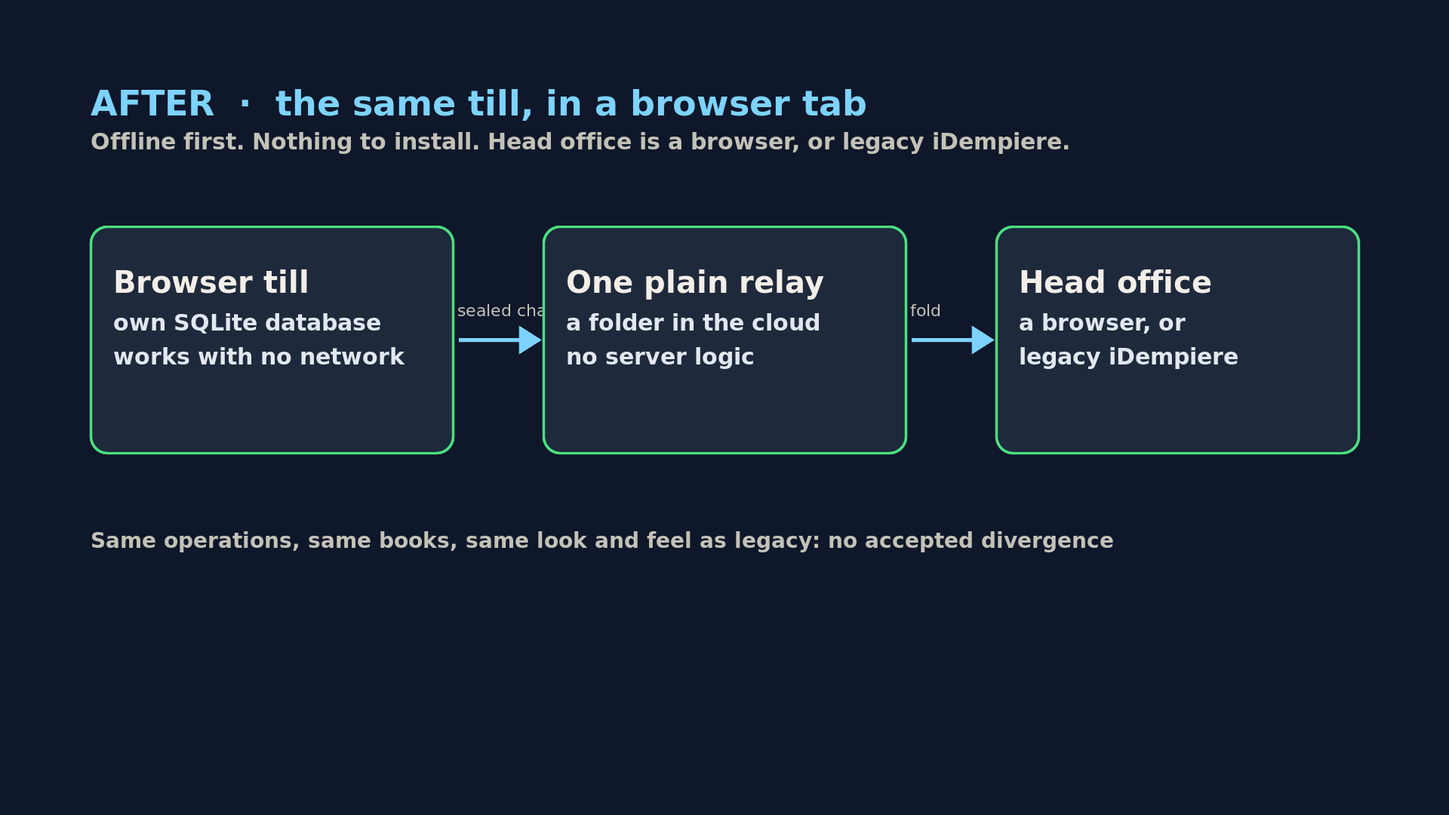
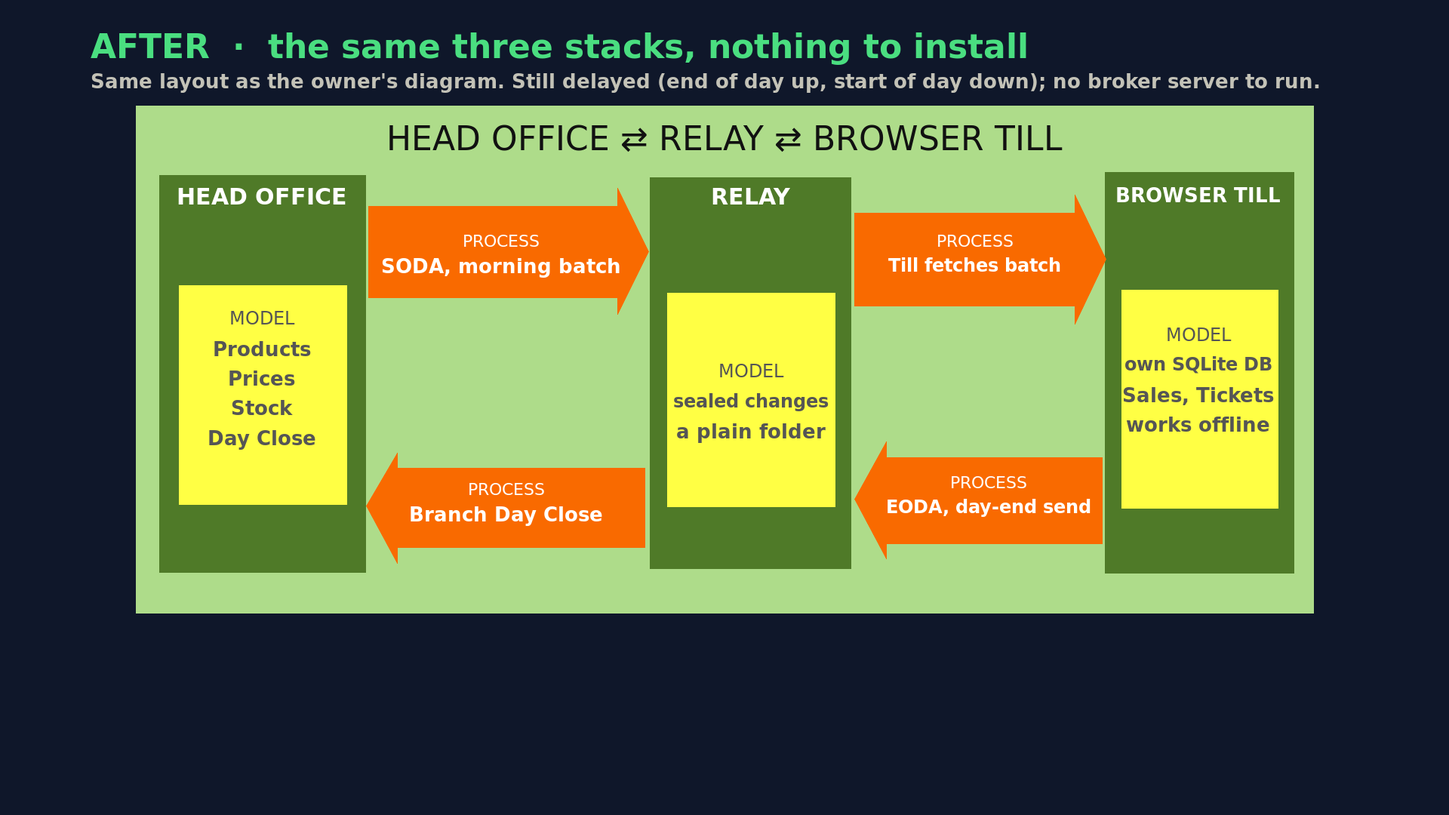
Film v3: uniCenta till - new slide 3 EXPAND (branch, main till, branch relay), beat 3 re-worded for the main-till design (BEAT3=stills|live switch) (#367)
Claude-Session: https://claude.ai/code/session_01PBvdzAwjFm5UQCygTGVDUN

diff --git a/scripts/film_unicenta_till/cards.js b/scripts/film_unicenta_till/cards.js
@@ -4,7 +4,7 @@
 'use strict';
 const fs = require('fs'), path = require('path'), { execFileSync } = require('child_process');
 const FACTS = () => JSON.parse(fs.readFileSync(path.join(__dirname, 'out', 'facts.resolved.json'), 'utf8'));
-const CORAL = '#FF6B78', OFF = '#F3EEE8', SKY = '#7dd3fc', MUT = '#C3C2B7', AMB = '#fbbf24', GRN = '#4ade80', INK = '#e2e8f0', BOXF = '#1e293b', BOXS = '#7dd3fc';
+const CRL = '#ff9aa5', CORAL = '#FF6B78', OFF = '#F3EEE8', SKY = '#7dd3fc', MUT = '#C3C2B7', AMB = '#fbbf24', GRN = '#4ade80', INK = '#e2e8f0', BOXF = '#1e293b', BOXS = '#7dd3fc';
 const box = (x, y, w, h, o) => ({ t: 'box', x, y, w, h, fill: (o && o.fill) || BOXF, stroke: (o && o.stroke) || BOXS });
 const tx = (x, y, size, color, txt, o) => ({ t: 'text', x, y, size, color, txt, bold: !(o && o.light), center: o && o.center });
 const arrow = (x1, y, x2, label) => ({ t: 'arrow', x1, y, x2, label });
@@ -26,13 +26,43 @@ function afterDiagram() {
     ctx(552, 190, 22, '#ffffff', 'PROCESS', false), ctx(552, 225, 26, '#ffffff', 'SODA, morning batch'), ctx(1270, 190, 22, '#ffffff', 'PROCESS', false), ctx(1270, 225, 24, '#ffffff', 'Till fetches batch'),
     ctx(560, 565, 22, '#ffffff', 'PROCESS', false), ctx(560, 600, 26, '#ffffff', 'Branch Day Close'), ctx(1290, 555, 22, '#ffffff', 'PROCESS', false), ctx(1290, 590, 24, '#ffffff', 'EODA, day-end send')];
 }
+
+// v3 (2026-11-05, POS_PLUGIN_LOCAL_FIRST.md §34.E): the EXPAND slide. The right-hand stack of the AFTER opens into a BRANCH: several tills, each air-gapped on its own localhost, joined by a branch relay;
+// one MAIN TILL holds HQ's stock figure, collects the others' order lines, and alone talks to the internet relay (EODA up, SODA down). DESIGN drawn, no number on any of these cards (nothing is measured yet).
+const pframe = (x1, y1, x2, y2, color, w) => ({ t: 'frame', x1: gx(x1), y1: gy(y1), x2: gx(x2), y2: gy(y2), color, w });
+const harrow = (xa, xb, yc, dir, fill) => { const base = xb - dir * 42, h = 14, hh = 32;
+  return parrow([[xa, yc - h], [base, yc - h], [base, yc - hh], [xb, yc], [base, yc + hh], [base, yc + h], [xa, yc + h]], fill || ORG); };
+const TX = [780, 1025, 1270, 1515], TW = 215, DKR = '#b3122a';
+// o: relay (branch relay bar + connectors), arrows ('on' | 'off'), labels (SODA/EODA words), main (till A is the MAIN TILL), collect (connectors coral = order lines flow to the main till), note (lines in the branch foot)
+function branchDiagram(o) {
+  const ops = [prect(0, 0, 1781, 767, GREENBG), prect(35, 105, 270, 705, DKG), prect(380, 108, 600, 700, DKG), prect(760, 105, 1751, 707, DKG),
+    prect(55, 272, 250, 603, YEL), prect(400, 283, 580, 606, YEL)];
+  if (o.arrows === 'on') { ops.push(harrow(275, 375, 200, 1), harrow(375, 275, 560, -1), harrow(605, 755, 215, 1), harrow(755, 605, 345, -1)); }
+  ops.push(ctx(891, 20, 40, '#111111', 'HEAD OFFICE ⇄ INTERNET RELAY ⇄ BRANCH', false), ctx(152, 118, 24, '#ffffff', 'HEAD OFFICE'), ctx(490, 118, 28, '#ffffff', 'RELAY'), ctx(1255, 118, 30, '#ffffff', 'BRANCH'),
+    ctx(152, 305, 24, '#555555', 'MODEL', false), ctx(152, 350, 26, '#555555', 'Products'), ctx(152, 395, 26, '#555555', 'Prices'), ctx(152, 440, 26, '#555555', 'Stock'), ctx(152, 485, 26, '#555555', 'Day Close'),
+    ctx(490, 330, 24, '#555555', 'INTERNET', false), ctx(490, 380, 20, '#555555', 'sealed changes'), ctx(490, 425, 22, '#555555', 'a plain folder'));
+  if (o.labels) ops.push(ctx(680, 172, 17, '#111111', 'SODA, down'), ctx(680, 374, 17, '#111111', 'EODA, up'));
+  for (let i = 0; i < 4; i++) { const mainTill = o.main && i === 0, x = TX[i], cx = x + TW / 2, y2 = mainTill ? 432 : 360;
+    ops.push(prect(x, 160, x + TW, y2, YEL));
+    if (mainTill) ops.push(pframe(x, 160, x + TW, y2, DKR, 7), ctx(cx, 170, 26, DKR, 'MAIN TILL'));
+    ops.push(ctx(cx, mainTill ? 215 : 180, 28, '#555555', 'TILL ' + 'ABCD'[i]), ctx(cx, mainTill ? 262 : 230, 24, '#555555', 'localhost'), ctx(cx, mainTill ? 300 : 268, 24, '#555555', 'air-gapped'), ctx(cx, mainTill ? 338 : 306, 21, '#555555', 'own SQLite DB', false));
+    if (mainTill) ops.push(ctx(cx, 370, 20, DKR, 'HQ stock figure'), ctx(cx, 398, 20, DKR, '+ order lines'));
+    if (o.relay) ops.push(prect(cx - 6, y2, cx + 6, 470, o.collect && i > 0 ? CRL : (o.collect ? DKR : ORG)));
+  }
+  if (o.relay) ops.push(prect(780, 470, 1730, 545, '#0e7490'), ctx(1255, 485, 30, '#ffffff', 'BRANCH RELAY'), ctx(1255, 520, 20, '#e0f2fe', 'inside the shop', false));
+  (o.note || []).forEach((n, i) => ops.push(ctx(1255, 575 + i * 42, 24, '#ffffff', n, i === 0)));
+  return ops; }
+const NOTE_FRAME = { exp2: ['Each till runs from its own copy, on its own localhost', 'no public address, no server to reach'], exp3: ['A dumb mailbox on the shop\'s own network', 'it carries the shop\'s own traffic, nothing else'],
+  exp4: ['MAIN TILL: HQ\'s stock figure + the others\' order lines', 'Only the main till talks to the internet relay', 'Branch relay down? Every till keeps selling'],
+  day1: ['SELLING: every till rings on its own localhost', 'nothing goes out to the internet while they sell'], day2: ['COLLECTING: the main till collects each till\'s order lines', 'since that till\'s last timestamp, never a line twice', 'running record: HQ stock figure minus the collected lines'],
+  day3: ['END OF DAY: the main till\'s EODA is the single send', 'to the internet relay; head office picks it up from there'] };
 function spec() {
   const F = {}; const fr = FACTS(); Object.keys(fr).forEach(k => { F[k] = fr[k].value; });
   const chap = (k, l1, l2, pl) => ({ bg: '#0b0f17', ops: [{ t: 'ctext', y: 330, size: 34, color: CORAL, txt: k, spacing: 6 }, { t: 'ctext', y: 400, size: 120, color: OFF, txt: l1, bold: true }, { t: 'ctext', y: 540, size: 120, color: CORAL, txt: l2, bold: true }, { t: 'ctext', y: 700, size: 40, color: MUT, txt: pl }] });
   const C = {
     ch1: chap('THE TILL', 'A till you', 'already know', 'uniCenta layout and flow, in a browser tab'),
     ch2: chap('THE RESTAURANT', 'Kitchen', 'and tables', 'floor map, Send Order, the kitchen screen'),
-    ch3: chap('THE BRANCH DAY', 'End of day,', 'once', 'three tills, one branch admin, one send'),
+    ch3: chap('THE BRANCH DAY', 'End of day,', 'once', 'each till rings on its own, the main till collects, a single send'),
     ch4: chap('HEAD OFFICE', 'Head office,', 'next morning', 'one click closes the branch day'),
     ch5: chap('SODA', 'Only what', 'changed', 'the morning batch down to the tills'),
     ch6: chap('THE ORACLE', 'Same books', 'as legacy', 'compared with real iDempiere, column by column'),
@@ -41,6 +71,13 @@ function spec() {
     before: { bg: '#0f172a', ops: [tx(120, 36, 44, SKY, 'BEFORE  ·  the owner\'s integration, ' + F.year2012), tx(120, 92, 26, MUT, 'Diagram: "ERP to POS integration model", from RED1\'s integration guide of ' + F.year2011 + ' (copyleft RED1)'),
       { t: 'img', file: 'p50_diagram.png', x: 180, y: 140, w: 1560 }] },
     after: { bg: '#0f172a', ops: [tx(120, 36, 44, GRN, 'AFTER  ·  the same three stacks, nothing to install'), tx(120, 92, 26, MUT, 'Same layout as the owner\'s diagram. Still delayed (end of day up, start of day down); no broker server to run.')].concat(afterDiagram()) },
+    exp1: { bg: '#0f172a', ops: [tx(120, 36, 44, GRN, 'EXPAND  ·  the right-hand stack opens up into a branch'), tx(120, 92, 26, MUT, 'The AFTER diagram again, same three stacks. Watch the browser till on the right.')].concat(afterDiagram(), [pframe(1456, 90, 1761, 717, CORAL, 8)]) },
+    exp2: { bg: '#0f172a', ops: [tx(120, 36, 44, GRN, 'EXPAND  ·  several tills, each air-gapped on its own localhost'), tx(120, 92, 26, MUT, 'The design of a branch, in the same layout as the owner\'s diagram.')].concat(branchDiagram({ arrows: 'on', note: NOTE_FRAME.exp2 })) },
+    exp3: { bg: '#0f172a', ops: [tx(120, 36, 44, GRN, 'EXPAND  ·  a branch relay joins them, inside the shop'), tx(120, 92, 26, MUT, 'The design of a branch, in the same layout as the owner\'s diagram.')].concat(branchDiagram({ arrows: 'on', relay: true, note: NOTE_FRAME.exp3 })) },
+    exp4: { bg: '#0f172a', ops: [tx(120, 36, 44, GRN, 'EXPAND  ·  one MAIN TILL talks to the internet relay'), tx(120, 92, 26, MUT, 'EODA goes up, SODA comes down: the same delayed relay as before, once per branch.')].concat(branchDiagram({ arrows: 'on', relay: true, labels: true, main: true, note: NOTE_FRAME.exp4 })) },
+    day1: { bg: '#0f172a', ops: [tx(120, 36, 44, SKY, 'END OF DAY  ·  every till rings on its own'), tx(120, 92, 26, MUT, 'Design of the branch day. Nothing leaves the shop while the tills sell.')].concat(branchDiagram({ arrows: 'off', relay: false, note: NOTE_FRAME.day1 })) },
+    day2: { bg: '#0f172a', ops: [tx(120, 36, 44, SKY, 'END OF DAY  ·  the main till collects'), tx(120, 92, 26, MUT, 'Design of the branch day. The collecting runs on the shop\'s own relay only.')].concat(branchDiagram({ arrows: 'off', relay: true, main: true, collect: true, note: NOTE_FRAME.day2 })) },
+    day3: { bg: '#0f172a', ops: [tx(120, 36, 44, SKY, 'END OF DAY  ·  the main till\'s EODA is the one send'), tx(120, 92, 26, MUT, 'Design of the branch day. Head office picks the day up from the internet relay.')].concat(branchDiagram({ arrows: 'on', relay: true, labels: true, main: true, collect: true, note: NOTE_FRAME.day3 })) },
     gs: { bg: '#0f172a', ops: [tx(120, 110, 46, SKY, 'Branch Day Close  ·  before and after'),
       box(120, 220, 800, 330), tx(160, 270, 36, SKY, 'CLICKS'), tx(160, 360, 110, OFF, F.dc_before_g + '  →  ' + F.dc_after_g), tx(160, 480, 28, MUT, 'step by step, then one click'),
       box(1000, 220, 800, 330), tx(1040, 270, 36, SKY, 'SCREENS'), tx(1040, 360, 110, OFF, F.dc_before_s + '  →  ' + F.dc_after_s), tx(1040, 480, 28, MUT, 'six screens, then one'),
@@ -79,6 +116,7 @@ function render(outDir) {
       else if (o.t === 'arrow') { a.push('-stroke', SKY, '-strokewidth', '5', '-fill', SKY, '-draw', `line ${o.x1 + 8},${o.y} ${o.x2 - 22},${o.y}`, '-draw', `polygon ${o.x2 - 8},${o.y} ${o.x2 - 30},${o.y - 14} ${o.x2 - 30},${o.y + 14}`);
         a.push('-stroke', 'none', '-fill', MUT, '-font', 'DejaVu-Sans', '-pointsize', '22', '-gravity', 'NorthWest', '-annotate', `+${o.x1 + 6}+${o.y - 52}`, o.label); }
       else if (o.t === 'rect') a.push('-stroke', 'none', '-fill', o.fill, '-draw', `rectangle ${o.x1},${o.y1} ${o.x2},${o.y2}`);
+      else if (o.t === 'frame') a.push('-stroke', o.color, '-strokewidth', String(o.w || 6), '-fill', 'none', '-draw', `rectangle ${o.x1},${o.y1} ${o.x2},${o.y2}`);
       else if (o.t === 'poly') a.push('-stroke', 'none', '-fill', o.fill, '-draw', `polygon ${o.pts}`);
       else if (o.t === 'img') a.push('(', path.join(__dirname, 'out', 'pdf', o.file), '-filter', 'Lanczos', '-resize', o.w + 'x', ')', '-gravity', 'NorthWest', '-geometry', `+${o.x}+${o.y}`, '-composite');
       else if (o.t === 'text' && o.cx !== undefined) a.push('-stroke', 'none', '-fill', o.color, '-font', o.bold ? 'DejaVu-Sans-Bold' : 'DejaVu-Sans', '-pointsize', String(o.size), '-gravity', 'North', '-annotate', `${o.cx - 960 >= 0 ? '+' : ''}${o.cx - 960}+${o.y}`, o.txt);

diff --git a/scripts/film_unicenta_till/narr.js b/scripts/film_unicenta_till/narr.js
@@ -4,15 +4,19 @@ const fs = require('fs'), path = require('path');
 const SB = {}; fs.readFileSync(path.join(__dirname, 'script_en.md'), 'utf8').split('\n').forEach(l => { const m = /^\| (\d+) \|.*\| "(.*)" \|\s*$/.exec(l); if (m) SB[m[1]] = m[2]; });
 const SPEC = JSON.parse(fs.readFileSync(path.join(__dirname, 'facts.spec.json'), 'utf8')); delete SPEC._note;
 // [id, card (a plain card name, a chapter card, or 'REC:<segment>' = a recorded clip), storyboard row (null = silent), hold seconds (silent), facts, blockedBy]
+// BEAT3=stills (default): beat 3 is a composite of design stills (the recorded footage shows the OLD till -> branch-admin hand-off, which contradicts the main-till words).  BEAT3=live: the recorded clips seg_tills / seg_admin (re-record them when the main till + branch relay, TEAMWORK §38, have landed).
+const B3 = (process.env.BEAT3 || 'stills') === 'live';
 const BEATS = [
-  ['b0a', 'before', '1', 0, ['year2012', 'stacks3']], ['b0b', 'after', '2', 0, ['stacks3']],
+  ['b0a', 'before', '1', 0, ['year2012', 'stacks3']], ['b0b', 'after', '2', 0, ['stacks3']], ['b0c', 'exp1+exp2+exp3+exp4', '18', 0, []],
   ['c1', 'ch1', null, 3.6, []], ['b1p', 'orig', '3', 0, ['year2011', 'guide_two', 'guide_three']], ['b1a', 'REC:know', '4', 0, ['parity_n', 'parity_of']], ['b1b', 'REC:sale', '5', 0, ['sale_lines', 'sale_total']], ['b1c', 'REC:fold', '6', 0, [], 'W-TILL-CATALOG-TOGGLE'],
   ['c2', 'ch2', null, 3.6, []], ['b2a', 'REC:floor', '7', 0, []], ['b2b', 'REC:bump', '8', 0, ['rest_open_writes', 'rest_tap_writes', 'relay_order', 'lines_lo', 'lines_hi'], 'W-REST-FLOOR (chairs drawn)'],
-  ['c3', 'ch3', null, 3.6, []], ['b3a', 'REC:tills', '9', 0, ['tills', 'day_requests', 'relay_day']], ['b3b', 'REC:admin', '10', 0, ['tills', 'z_equal', 'eoda_send']],
+  ['c3', 'ch3', null, 3.6, []], ['b3a', B3 ? 'REC:tills' : 'day1+day2', '9', 0, []], ['b3b', B3 ? 'REC:admin' : 'day2+day3', '10', 0, []],
   ['c4', 'ch4', null, 3.6, []], ['b4a', 'REC:close', '11', 0, []], ['b4b', 'gs', '12', 0, ['dc_before_g', 'dc_before_s', 'dc_after_g', 'dc_after_s', 'dc_rowdiff', 'bom_a', 'bom_b', 'bom_c']],
   ['c5', 'ch5', null, 3.6, []], ['b5a', 'REC:price', '13', 0, ['soda_one', 'soda_other', 'soda_prices']], ['b5b', 'REC:receive', '14', 0, ['recv_target', 'recv_conf', 'recv_scrap', 'src_before', 'src_after', 'tgt_before', 'tgt_after'], 'W-RECEIVE-UI (§33.4 typed panel)'],
   ['c6', 'ch6', null, 3.6, []], ['b6', 'match', '15', 0, ['par_items', 'par_hdr', 'par_line']],
   ['b7', 'notyet', '16', 0, ['open_count', 'open_dec', 'open_dec2']], ['b8', 'credits', '17', 0, ['year2012']], ['end', 'credits', null, 0.3, []]];
 const beats = BEATS.map(([id, card, sb, hold, facts, blocked]) => { const raw = sb ? SB[sb] : null; if (sb && !raw) throw new Error('storyboard row ' + sb + ' has no narration'); facts.forEach(k => { if (!SPEC[k]) throw new Error(id + ' names unknown fact ' + k); });
-  return { id, card, rec: card.startsWith('REC:') ? card.slice(4) : null, hold: hold || null, text: raw, facts, blocked: blocked || null }; });
-module.exports = { beats, SPEC };
+  return { id, card, cards: card.startsWith('REC:') ? null : card.split('+'), rec: card.startsWith('REC:') ? card.slice(4) : null, hold: hold || null, text: raw, facts, blocked: blocked || null }; });
+// seconds-share of each still of a cross-faded beat (the first still carries the opening line)
+const WEIGHTS = { b0c: [2, 3, 3, 4], b3a: [1, 1], b3b: [1, 1] };
+module.exports = { beats, SPEC, WEIGHTS };

diff --git a/scripts/film_unicenta_till/assemble.js b/scripts/film_unicenta_till/assemble.js
@@ -13,7 +13,13 @@ for (const b of N.beats) {
     // a real-pace clip longer than its narration + SLACK is time-lapsed (setpts) so the picture ends with the voice (PLAYBOOK C step 4: speech + 1-3 s); never slowed, padded only up to the narration
     const speed = have > target ? have / target : 1, pad = speed === 1 ? Math.max(0, want - have) : 0; const w0 = want; want = speed > 1 ? target : Math.max(want, have); console.log(`§ASM_SPEED ${b.id} clip=${have.toFixed(2)}s narration_want=${w0.toFixed(2)}s speed=x${speed.toFixed(2)}`);
     execFileSync('ffmpeg', ['-v', 'error', '-y', '-i', clip, '-vf', `setpts=PTS/${speed.toFixed(4)},fps=${FPS},tpad=stop_mode=clone:stop_duration=${pad.toFixed(3)},scale=1920:1080,format=yuv420p`, ...ENC, seg]); }
-  else { const png = path.join(OUT, 'cards', b.card + '.png'), ch = /^ch/.test(b.card), fade = ch ? `,fade=t=in:st=0:d=0.4,fade=t=out:st=${(want - 0.4).toFixed(3)}:d=0.4` : '';
+  else if (b.cards.length > 1) { // stills cross-faded (xfade): the cards share the beat's length by W weights; each clip carries the fade overlap X, the chain is cut to `want` (§34.E EXPAND animation, no zoompan)
+    const X = 0.8, K = b.cards.length, WT = (N.WEIGHTS && N.WEIGHTS[b.id]) || b.cards.map(() => 1), SW = WT.reduce((a, v) => a + v, 0), d = WT.map(v => want * v / SW), args = ['-v', 'error', '-y']; let fc = '', len = d[0] + X;
+    b.cards.forEach((c, i) => args.push('-loop', '1', '-framerate', String(FPS), '-t', (d[i] + X).toFixed(3), '-i', path.join(OUT, 'cards', c + '.png')));
+    b.cards.forEach((c, i) => { fc += `[${i}:v]scale=1920:1080,format=yuv420p,setsar=1[s${i}];`; });
+    let prev = 's0'; for (let i = 1; i < K; i++) { const off = len - X; fc += `[${prev}][s${i}]xfade=transition=fade:duration=${X}:offset=${off.toFixed(3)}[x${i}];`; prev = 'x' + i; len += d[i]; }
+    execFileSync('ffmpeg', [...args, '-filter_complex', fc.replace(/;$/, ''), '-map', '[' + prev + ']', '-t', want.toFixed(3), ...ENC, seg]); console.log(`§ASM_XFADE ${b.id} cards=${b.cards.join(',')} fade=${X}s parts=${d.map(v => v.toFixed(2)).join('/')}s`); }
+  else { const png = path.join(OUT, 'cards', b.cards[0] + '.png'), ch = /^ch/.test(b.card), fade = ch ? `,fade=t=in:st=0:d=0.4,fade=t=out:st=${(want - 0.4).toFixed(3)}:d=0.4` : '';
     execFileSync('ffmpeg', ['-v', 'error', '-y', '-loop', '1', '-framerate', String(FPS), '-i', png, '-t', want.toFixed(3), '-vf', `scale=1920:1080,format=yuv420p${fade}`, ...ENC, '-tune', 'stillimage', seg]); }
   const n = frames(seg), s = t; t += n / FPS; TL.push({ id: b.id, start: +s.toFixed(3), end: +t.toFixed(3), frames: n, want: +want.toFixed(2) }); list.push(`file '${seg}'`);
   console.log(`§ASM_SEG ${b.id} start=${s.toFixed(3)} frames=${n} dur=${(n / FPS).toFixed(3)} want=${want.toFixed(2)}`);

diff --git a/scripts/film_unicenta_till/livecheck.js b/scripts/film_unicenta_till/livecheck.js
@@ -9,7 +9,7 @@ const CK = [['tills', '3', 'three tills'], ['sale_lines', '4', 'two rose bushes 
   ['eoda_send', '1', 'one hub-lane put for the send'], ['recv_target', fx('recv_target'), 'five sent'], ['recv_confirmed', fx('recv_conf'), 'three arrived'], ['recv_scrapped', fx('recv_scrap'), 'one scrapped'],
   ['src_before', fx('src_before'), 'twenty'], ['src_after', fx('src_after'), 'fifteen'], ['tgt_before', fx('tgt_before'), 'four'], ['tgt_after', fx('tgt_after'), 'six'],
   ['tap_deposits', fx('rest_tap_writes'), 'tapping items writes nothing (§32.R twin)'], ['leave_deposits', fx('rest_open_writes'), 'one write per table visit (§32.R twin)'], ['prices_total', String(+fx('soda_other') + 1), 'twenty-six others = 27 - 1'], ['parity_rows', fx('parity_n'), 'twenty-five of twenty-five (§32.R twin)']];
-let fail = 0, inc = 0;
-CK.forEach(([k, want, why]) => { if (L[k] === undefined) { inc++; console.log('§LIVE ' + k + ' INCONCLUSIVE no §TILLFILM_FACT printed (' + why + ')'); return; } const ok = L[k] === String(want); if (!ok) fail++; console.log('§LIVE ' + k + ' ' + (ok ? 'OK' : 'FAIL') + ' live=' + L[k] + ' want=' + want + ' (' + why + ')'); });
+let fail = 0, inc = 0, skipped = 0; const STILLS = (process.env.BEAT3 || 'stills') !== 'live', B3KEYS = ['tills', 'relay_day', 'z_equal', 'eoda_send']; // beat 3 as stills: the recorded old till->admin hand-off is not on screen and its numbers are not spoken
+CK.forEach(([k, want, why]) => { if (STILLS && B3KEYS.indexOf(k) >= 0) { skipped++; console.log('§LIVE_SKIP ' + k + ' (BEAT3=stills: beat 3 shows no recording, the voice speaks no number there)'); return; } if (L[k] === undefined) { inc++; console.log('§LIVE ' + k + ' INCONCLUSIVE no §TILLFILM_FACT printed (' + why + ')'); return; } const ok = L[k] === String(want); if (!ok) fail++; console.log('§LIVE ' + k + ' ' + (ok ? 'OK' : 'FAIL') + ' live=' + L[k] + ' want=' + want + ' (' + why + ')'); });
 const extra = [['chairs_drawn', v => +v > 0, 'W-REST-FLOOR: chairs drawn'], ['sale_total', v => +v > 0, 'sample sale total']]; extra.forEach(([k, f, why]) => { if (L[k] === undefined) { inc++; console.log('§LIVE ' + k + ' INCONCLUSIVE'); return; } const ok = f(L[k]); if (!ok) fail++; console.log('§LIVE ' + k + ' ' + (ok ? 'OK' : 'FAIL') + ' live=' + L[k] + ' (' + why + ')'); });
-console.log('§LIVE_VERDICT ' + (fail ? 'FAIL fails=' + fail : inc ? 'INCONCLUSIVE missing=' + inc : 'PASS') + ' checked=' + (CK.length + extra.length)); process.exit(fail ? 1 : 0);
+console.log('§LIVE_VERDICT ' + (fail ? 'FAIL fails=' + fail : inc ? 'INCONCLUSIVE missing=' + inc : 'PASS') + ' checked=' + (CK.length + extra.length - skipped) + ' skipped=' + skipped); process.exit(fail ? 1 : 0);

diff --git a/scripts/film_unicenta_till/script_en.md b/scripts/film_unicenta_till/script_en.md
@@ -1,18 +1,18 @@
 <!-- ⚠ DO NOT REMOVE — Scope: narration source of the film "uniCenta POS, reborn: the SQLite WASM till" (bim-compiler prompts/POS_PLUGIN_LOCAL_FIRST.md §34, PLAYBOOK C of prompts/FILM_NARRATION.md). The last column is spoken VERBATIM (F asks as a newcomer, M answers). Numbers are IN WORDS and each one is a fact of facts.spec.json (guard.js refuses any number word that the beat does not declare). READ THE LOG after every run: out/resolve.log, out/guard.log, out/fit.log. -->
-# Storyboard — narration (v2, EN)
+# Storyboard — narration (v3, EN)
 
 | # | Beat | On screen | Narration |
 |---|---|---|---|
 | 1 | b0a Before | the owner's own p50 diagram "ERP to POS integration model", cropped from his integration guide (credited at the top) | "F: Before we start: what did the owner build back in twenty twelve? | "F: Before we start: what did the owner build back in twenty twelve? | M: This is the owner's own diagram: the ERP, an ActiveMQ message queue in the middle, and the POS. Three stacks that work asynchronously. The queue only holds the data, and it is a server you install and run." |
-| 2 | b0b After | AFTER card drawn in the diagram's own layout: head office, relay, browser till | "F: And what is different now? | "F: And what is different now? | M: The same three stacks, still delayed: the end of day goes up and the start of day comes down. The till is a browser tab that keeps working offline, the middle is a plain mailbox with no server to run, and head office is a browser, or the original iDempiere." |
+| 2 | b0b After | AFTER card drawn in the diagram's own layout: head office, relay, browser till (no LAN, no multi-till) | "F: And what is different now? | "F: And what is different now? | M: The same three stacks, still delayed: the end of day goes up and the start of day comes down. The till is a browser tab that keeps working offline, the middle is a plain mailbox with no server to run, and head office is a browser, or the original iDempiere." |
 | 3 | b1p Original | the ORIGINAL Openbravo POS sales screen, cropped from the owner's guide (2011): Tools tiles, ticket Hoe + Rake-Bamboo | "F: Wait, that screen has the same Tools tiles, Hoe and Rake. | M: It does. That was the Openbravo till of the owner's guide from twenty eleven, two hoes and three bamboo rakes on a single ticket. Here it is today, in a browser tab." |
 | 4 | b1a Know | till: login, Register menu, Sales | "F: Is this really like uniCenta? | M: A cashier signs in, picks Sales from the Register menu, and sees the sales screen they know. Twenty-five of twenty-five everyday uniCenta tasks pass the parity check." |
 | 5 | b1b Sale | sample sale by real clicks, split tender, receipt | "F: And ringing up a sale? | M: Two rose bushes, a hoe and a patio chair, all by real clicks. Cash and card together, then the receipt." |
 | 6 | b1c Fold | catalog collapses and expands (§33) | "F: The picture catalog takes a lot of room, doesn't it? | M: So it folds away with a single tap, and opens again when you need it." |
 | 7 | b2a Floor | floor map, open a table, Send Order, kitchen card | "F: What about a restaurant? | M: The floor map draws each table with its chairs. Open a table, add the order, press Send Order, and a card appears on the kitchen screen." |
 | 8 | b2b Bump | bump, ready on the till, booking checked in | "F: How much traffic does that cost? | M: Opening a table is a single write, and tapping items writes nothing. A delivered order takes thirty-eight relay requests, whether it has one line or eight. | F: And when the cook is done? | M: The cook bumps the card, the till shows it is ready, and a booked table is checked in the same way." |
-| 9 | b3a Tills | three tills sell, Close Cash on each | "F: Three tills, three closings. What does head office hear from them? | M: Nothing while they sell: the tills send zero requests. At Close Cash each till hands its shift to the branch admin." |
-| 10 | b3b Admin | branch admin EODA screen, Send EODA, relay counter | "F: So who does talk to head office? | M: Only the admin, and only once. Its screen shows each till's ticket range and Z report, and the branch total equals the sum of the three Z reports." |
+| 9 | b3a Tills | stills (BEAT3=stills) or the re-recorded tills (BEAT3=live): each till rings on its own localhost, the main till collects | "F: Several tills, several closings. What does head office hear from them? | M: Nothing while they sell. Each till rings on its own, on its own localhost. The main till collects the others' order lines inside the branch, by timestamp, and never a line twice." |
+| 10 | b3b Main till | the main till's end-of-day send (stills or live, as above) | "F: So who does talk to head office? | M: Only the main till, and only once. Its end of day is the single send to the internet relay, and head office picks it up from there. Its running record starts from head office's stock figure and takes off every collected line." |
 | 11 | b4a Close | head office: Branch Day Close, one click | "F: And at head office, the next morning? | M: A single click on Branch Day Close. It imports the day's sales and runs the replenishment, in the same order the clerk would." |
 | 12 | b4b Count | card: clicks and screens before and after | "F: How many steps did that used to take? | M: Twenty-eight clicks across six screens. Now nine clicks on one screen. That count is read off the menu path, not from a recording. | F: Same books? | M: Row for row. In the checked test the difference from doing it step by step is zero, and a bill-of-materials item sold at the till takes its parts out of stock: six, twenty-four and fifteen hundred." |
 | 13 | b5a Price | the morning batch: one price changes on its tile | "F: How does a price change reach the tills? | M: In the morning batch, and only what changed. One price edited at head office sends one row. The twenty-six others stay as they were." |
@@ -20,3 +20,5 @@
 | 15 | b6 Legacy | card: twin and legacy, MATCH | "F: Is any of this checked against real iDempiere? | M: Yes, we run both and compare. The replenishment movement, the move confirmation, the difference documents and the storage all match, four of four. That includes forty-two header columns and twenty-one line columns on the movement. The price stamp is not compared." |
 | 16 | b7 NotYet | not built yet card | "F: What is not built yet? | M: Four things. Legacy writes nine point zero in a text where we write nine, a difference we have not accepted and will fix on our side. The price-change timestamp could not be compared, because legacy's web service cannot edit that table. A pair of tills sharing a table over a real relay is not proven yet. And memory with all the pictures loaded is not measured." |
 | 17 | b8 Credits | promise + credits card | "F: Who is this built on? | "F: Who is this built on? | M: The owner's own twenty twelve integration of Openbravo POS with ADempiere and iDempiere over ActiveMQ, the delayed end-of-day and start-of-day relay, is the prior art. The uniCenta layout and flow are followed, and no code or artwork is copied. Product pictures are Fluent Emoji, under the M.I.T. licence. The promise: the same operations, the same books, the same look as legacy, with nothing to install." |
+
+| 18 | b0c Expand | NEW slide 3: the right-hand stack opens into a branch (four stills cross-faded: exp1..exp4): several tills each air-gapped on its own localhost, the branch relay, the MAIN TILL; only it talks to the internet relay. Design shown, no number | "F: So what does a whole shop look like? | M: The till stack opens up into a branch. Several tills, each air-gapped on its own localhost, with no public address. | F: And how do they work together? | M: A small branch relay inside the shop joins them. It carries only the shop's own traffic. | F: Then who does talk to head office? | M: Only the main till. It holds head office's stock figure and collects the others' order lines. Its end of day goes up and the start of day comes down. If the branch relay is down, every till keeps selling." |
